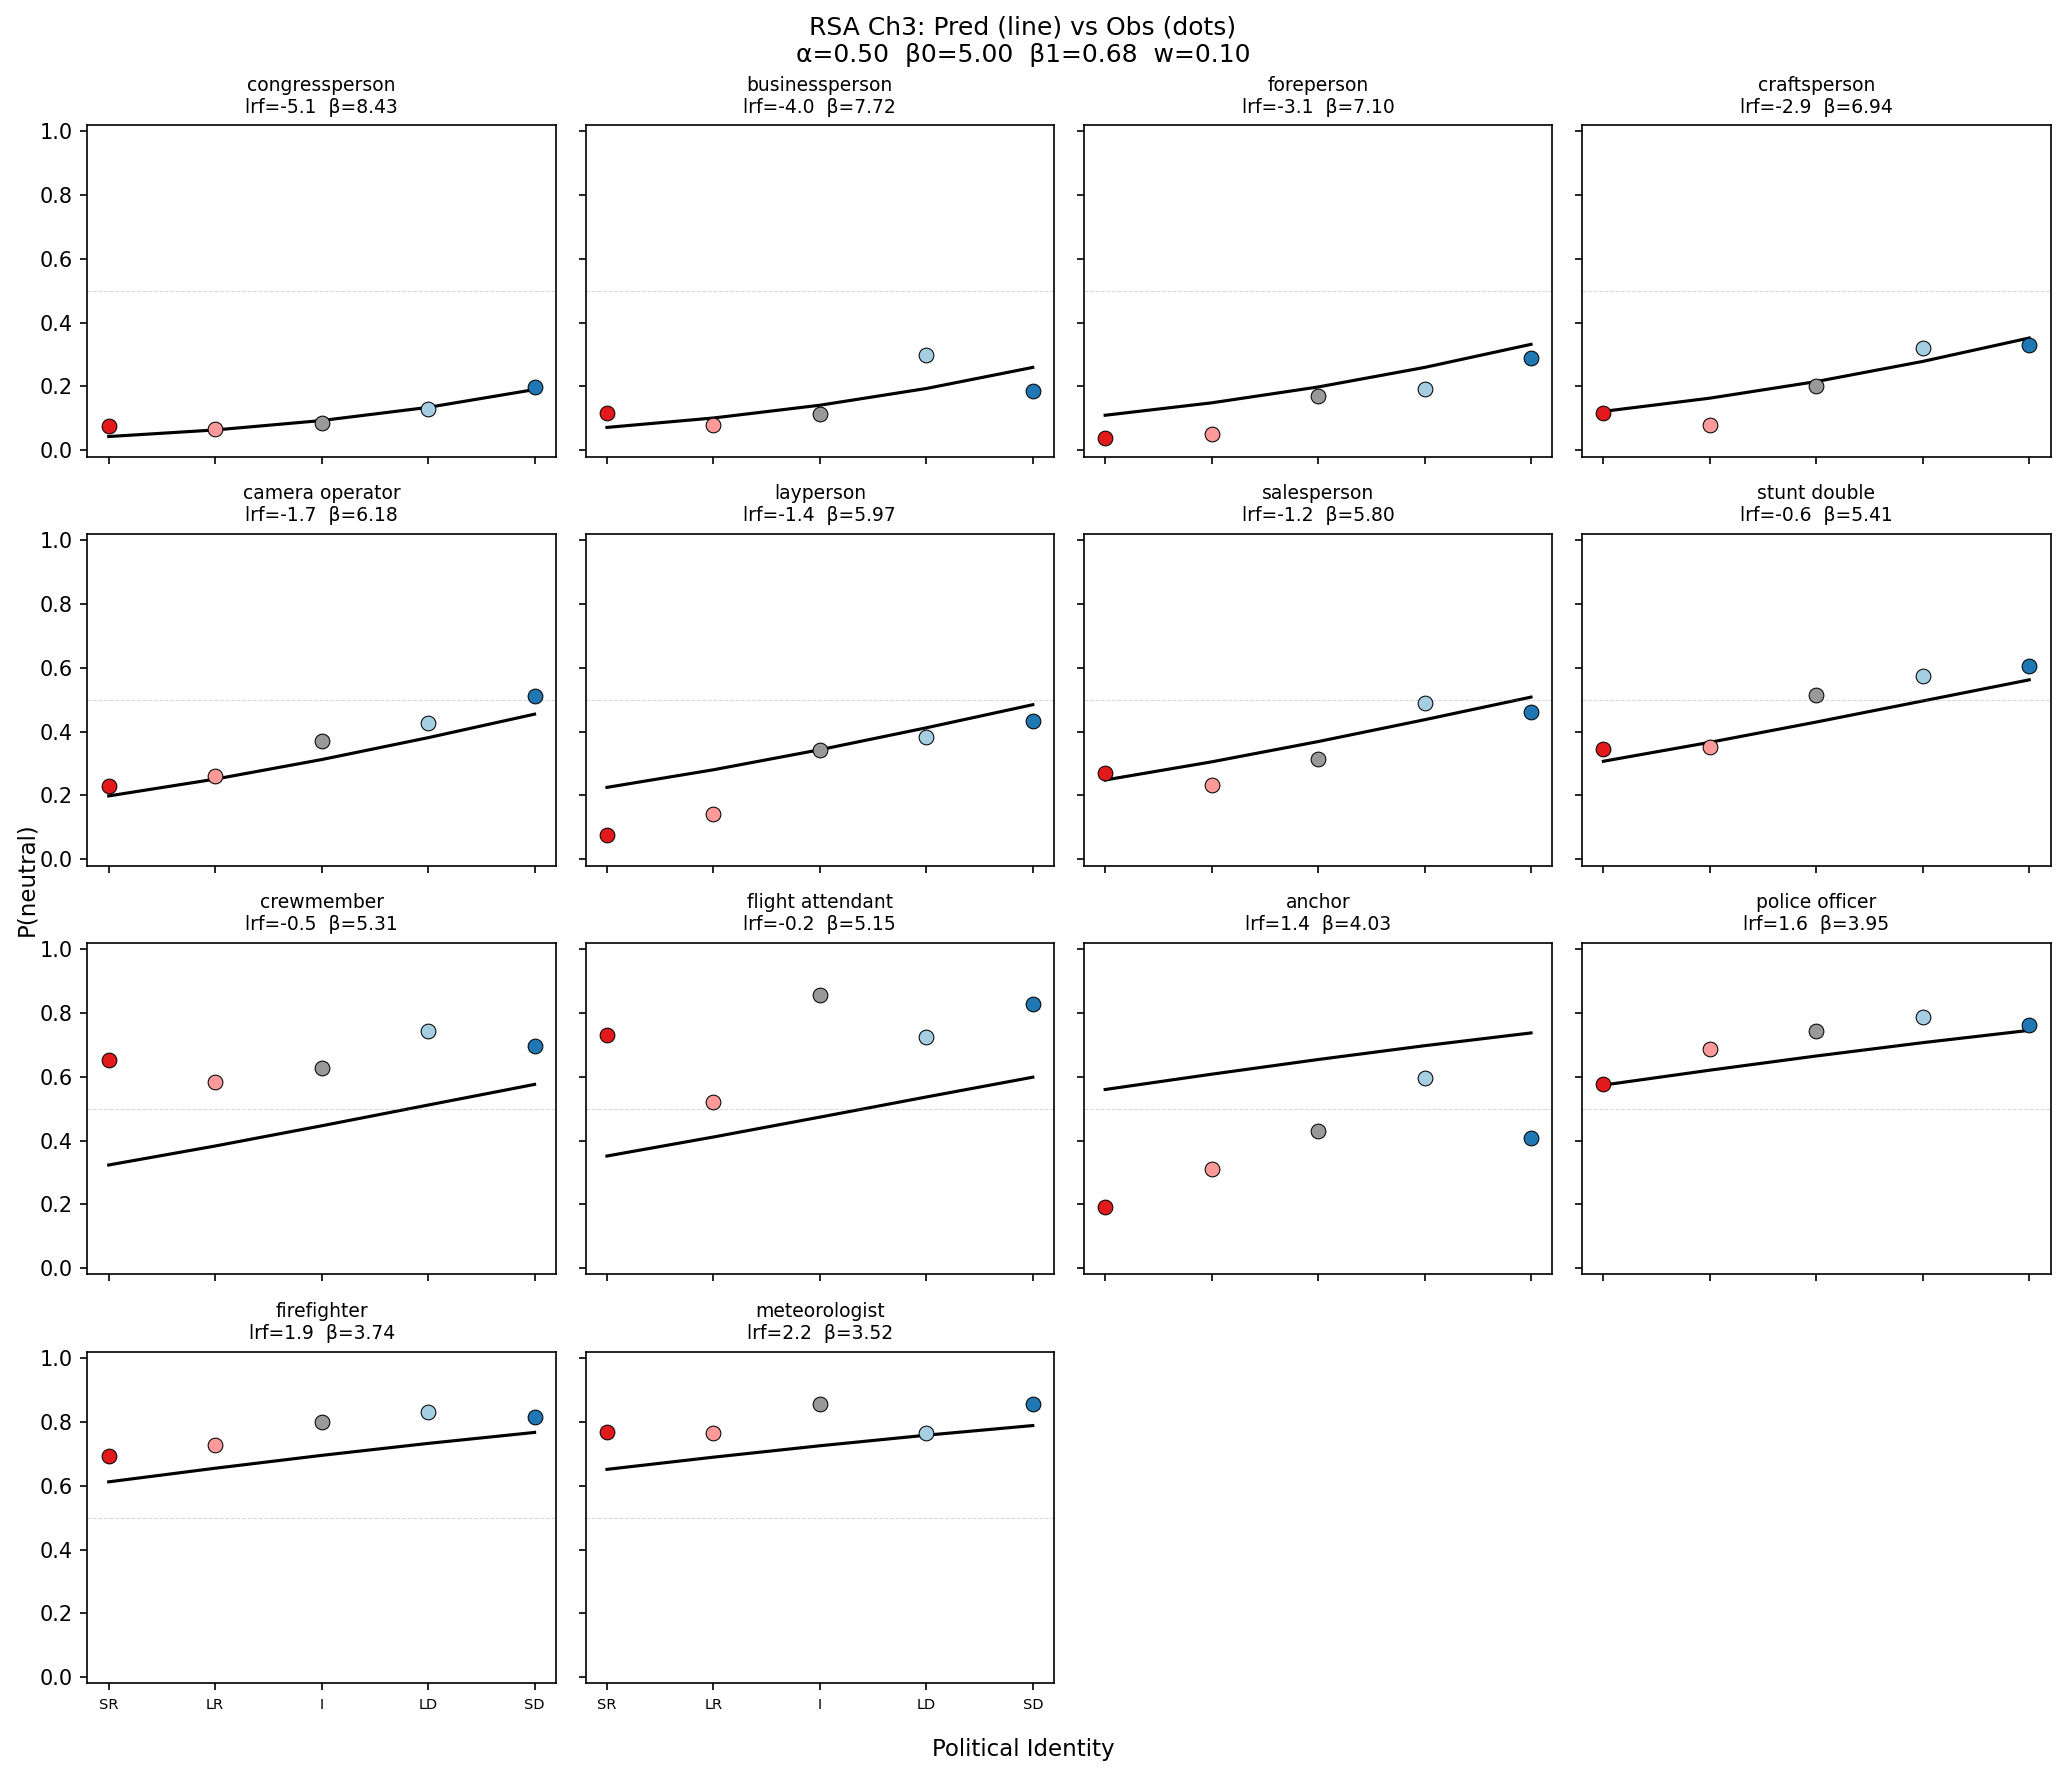
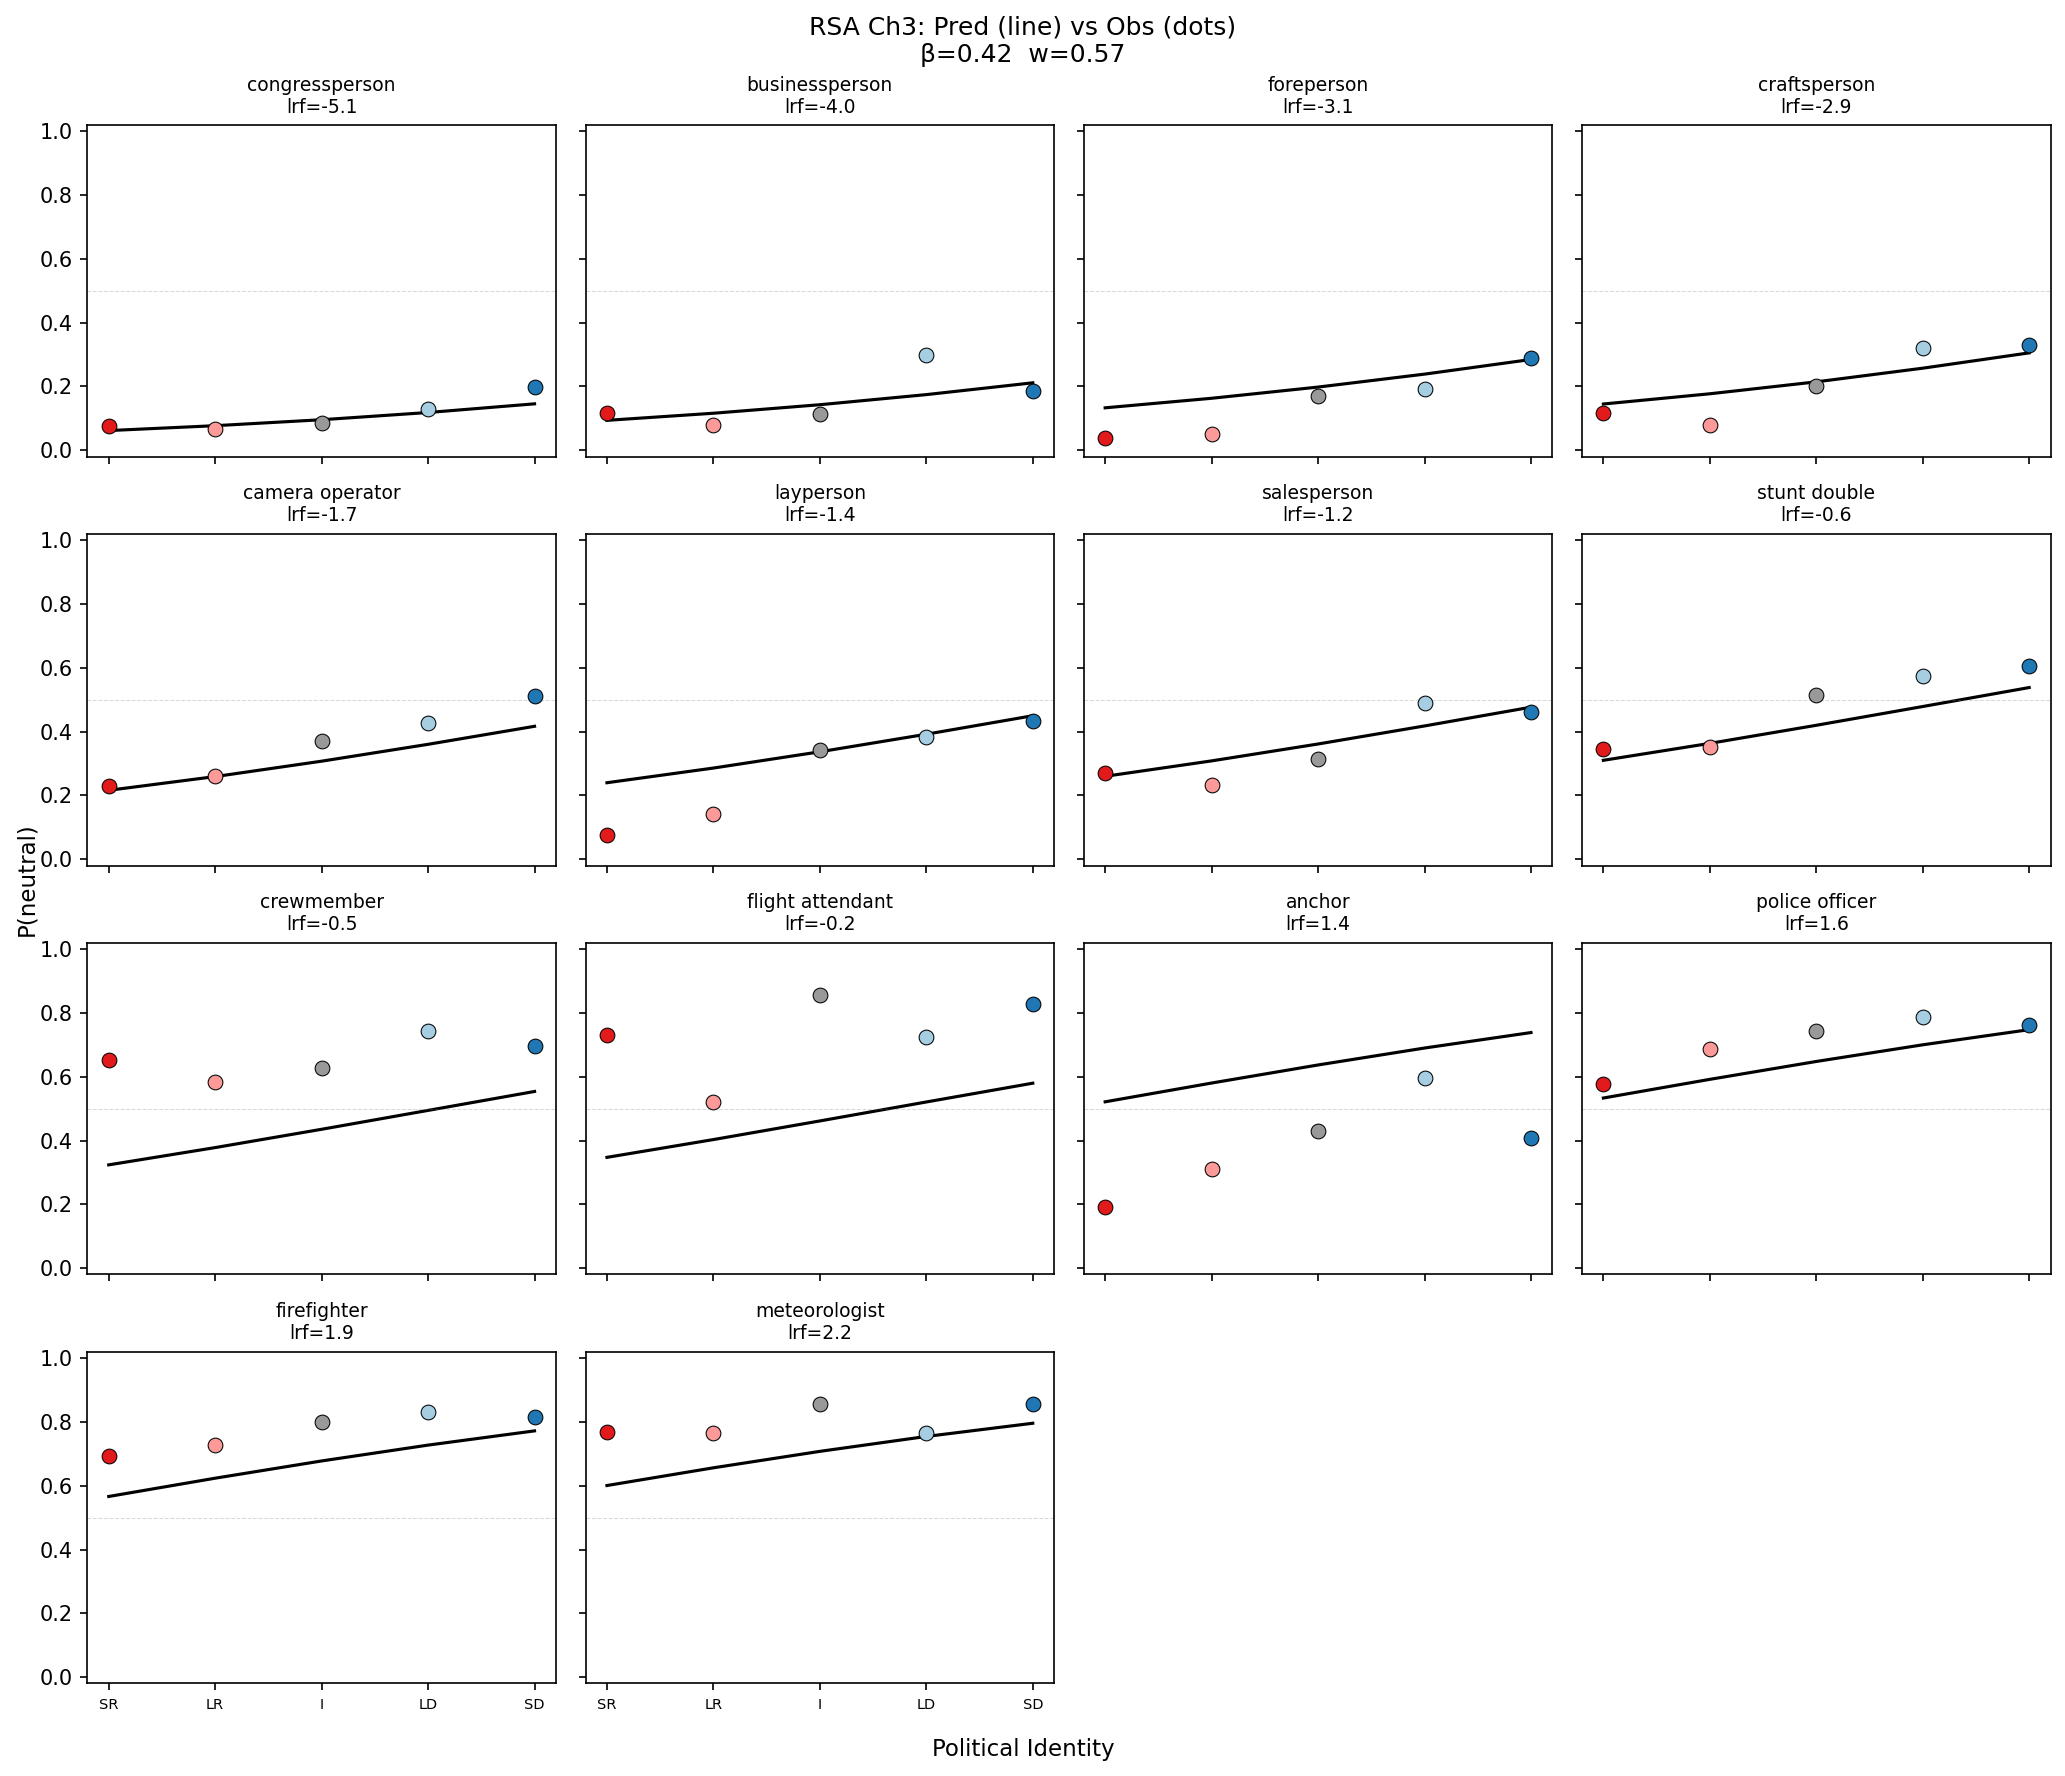
Simplify to 2-parameter model (β, w): drop α and per-lexeme β1

diff --git a/rsa_ch3.py b/rsa_ch3.py
@@ -10,10 +10,8 @@ Speakers choose between neutral and gendered role nouns to:
   2. Minimize cost (frequency: rare forms are costly to produce)
 
 Parameters:
-  α (alpha):  rationality — softmax temperature
-  β0, β1:     social meaning — β(lexeme) = max(0, β0 + β1 * (-log_rel_freq))
-              rare/novel neutral forms index progressiveness more strongly
-  w:          mixture weight — balance between informativity (1) and cost (0)
+  β (beta):  social meaning — how strongly neutral indexes progressiveness
+  w:         mixture weight — balance between informativity (1) and cost (0)
 
 Usage:
     python rsa_ch3.py
@@ -72,15 +70,6 @@ def make_prior(df):
 # =============================================================================
 
 @jax.jit
-def lexeme_beta(beta0, beta1, log_rel_freq):
-    """Per-lexeme social meaning strength.
-
-    Rare/novel neutral forms (negative log_rel_freq) index progressiveness
-    more strongly than established ones.
-    """
-    return jnp.maximum(0.0, beta0 + beta1 * (-log_rel_freq))
-
-@jax.jit
 def make_compat(beta):
     """
     Soft compatibility: identity × utterance.
@@ -128,7 +117,7 @@ def prior_wpp(i, prior):
     return prior[i]
 
 @memo
-def S1[i: I, u: U](alpha, w, prior: ..., compat_matrix: ..., costs: ...):
+def S1[i: I, u: U](w, prior: ..., compat_matrix: ..., costs: ...):
     """S1 speaker: choose utterance to signal political identity."""
     speaker: knows(i)
     speaker: thinks[
@@ -137,7 +126,7 @@ def S1[i: I, u: U](alpha, w, prior: ..., compat_matrix: ..., costs: ...):
             speaker: chooses(u in U, wpp=compat_lookup(i, u, compat_matrix))
         ]
     ]
-    speaker: chooses(u in U, wpp=exp(alpha * imagine[
+    speaker: chooses(u in U, wpp=exp(imagine[
         listener: observes [speaker.u] is u,
         listener: knows(i),
         (
@@ -151,12 +140,11 @@ def S1[i: I, u: U](alpha, w, prior: ..., compat_matrix: ..., costs: ...):
 # PREDICTION
 # =============================================================================
 
-def predict_lexeme(alpha, beta0, beta1, w, log_rel_freq, prior):
+def predict_lexeme(beta, w, log_rel_freq, prior):
     """Predict P(neutral | identity) for a single lexeme."""
-    beta = lexeme_beta(beta0, beta1, log_rel_freq)
     compat_matrix = make_compat(beta)
     costs = make_costs(log_rel_freq)
-    s1 = S1(alpha, w, prior=prior, compat_matrix=compat_matrix, costs=costs)
+    s1 = S1(w, prior=prior, compat_matrix=compat_matrix, costs=costs)
     return np.array(s1[:, 1])  # P(neutral) for each identity
 
 # =============================================================================
@@ -165,28 +153,26 @@ def predict_lexeme(alpha, beta0, beta1, w, log_rel_freq, prior):
 
 def total_rmse(params, observed, prior):
     """RMSE across all party × lexeme cells."""
-    alpha, beta0, beta1, w = params
+    beta, w = params
     errors = []
     for lexeme in observed['lexeme'].unique():
         lex_data = observed[observed['lexeme'] == lexeme]
         lrf = lex_data['log_rel_freq'].iloc[0]
-        pred = predict_lexeme(alpha, beta0, beta1, w, lrf, prior)
+        pred = predict_lexeme(beta, w, lrf, prior)
         for _, row in lex_data.iterrows():
             idx = int(row['party_numeric']) - 1
             errors.append((pred[idx] - row['neutral_rate']) ** 2)
     return float(np.sqrt(np.mean(errors)))
 
 def fit_model(observed, prior, n_starts=10):
-    """Fit α, β0, β1, w by minimizing RMSE."""
-    bounds = [(0.1, 20), (0.0, 5), (0.0, 5), (0.0, 1.0)]
+    """Fit β, w by minimizing RMSE."""
+    bounds = [(0.0, 5), (0.0, 1.0)]
     best_rmse = float('inf')
     best_x = None
 
     np.random.seed(42)
     for _ in range(n_starts):
-        x0 = [np.random.uniform(1, 10),
-               np.random.uniform(0, 1),
-               np.random.uniform(0, 1),
+        x0 = [np.random.uniform(0, 2),
                np.random.uniform(0.1, 0.9)]
         result = minimize(total_rmse, x0, args=(observed, prior),
                           method='L-BFGS-B', bounds=bounds,
@@ -196,8 +182,7 @@ def fit_model(observed, prior, n_starts=10):
             best_x = result.x
 
     return best_rmse, {
-        'alpha': best_x[0], 'beta0': best_x[1],
-        'beta1': best_x[2], 'w': best_x[3]
+        'beta': best_x[0], 'w': best_x[1]
     }
 
 # =============================================================================
@@ -222,14 +207,13 @@ def plot_results(plot_df, params):
         ax = axes[i]
         ld = plot_df[plot_df['lexeme'] == lexeme].sort_values('party_numeric')
         lrf = ld['log_rel_freq'].iloc[0]
-        beta = ld['beta'].iloc[0]
 
         for j, (_, row) in enumerate(ld.iterrows()):
             ax.scatter(row['party_numeric'], row['obs'],
                        color=party_colors[j], s=50, zorder=3, edgecolors='k', linewidths=0.5)
         ax.plot(ld['party_numeric'], ld['pred'], color='black', linewidth=1.5, zorder=2)
 
-        ax.set_title(f"{lexeme}\nlrf={lrf:.1f}  β={beta:.2f}", fontsize=9)
+        ax.set_title(f"{lexeme}\nlrf={lrf:.1f}", fontsize=9)
         ax.set_xticks(range(1, 6))
         if i >= (nrows - 1) * ncols:
             ax.set_xticklabels(['SR', 'LR', 'I', 'LD', 'SD'], fontsize=7)
@@ -244,8 +228,7 @@ def plot_results(plot_df, params):
     fig.supxlabel('Political Identity', fontsize=11)
     fig.supylabel('P(neutral)', fontsize=11)
     fig.suptitle(f"RSA Ch3: Pred (line) vs Obs (dots)\n"
-                 f"α={params['alpha']:.2f}  β0={params['beta0']:.2f}  "
-                 f"β1={params['beta1']:.2f}  w={params['w']:.2f}",
+                 f"β={params['beta']:.2f}  w={params['w']:.2f}",
                  fontsize=12)
     plt.tight_layout()
     plt.savefig('ch3_faceted.png', dpi=150, bbox_inches='tight')
@@ -330,14 +313,12 @@ def main():
     avg_rmse, params = fit_model(observed, prior)
 
     print(f"\nFitted parameters:")
-    print(f"  α (rationality)    = {params['alpha']:.3f}")
-    print(f"  β0 (base indexing) = {params['beta0']:.3f}")
-    print(f"  β1 (rarity boost)  = {params['beta1']:.3f}")
+    print(f"  β (social meaning) = {params['beta']:.3f}")
     print(f"  w (info vs cost)   = {params['w']:.3f}  [1=pure info, 0=pure cost]")
     print(f"  RMSE               = {avg_rmse:.4f}")
 
     # Per-lexeme table: pred/obs for each identity
-    header = f"{'Lexeme':<20} {'logFreq':>7} {'β':>5}"
+    header = f"{'Lexeme':<20} {'logFreq':>7}"
     for name in IDENTITY_NAMES:
         header += f"  {name:>11}"
     print(f"\n{header}")
@@ -349,19 +330,17 @@ def main():
     for lexeme in sorted(observed['lexeme'].unique()):
         lex_data = observed[observed['lexeme'] == lexeme]
         lrf = lex_data['log_rel_freq'].iloc[0]
-        beta = float(lexeme_beta(params['beta0'], params['beta1'], lrf))
-        pred = predict_lexeme(params['alpha'], params['beta0'], params['beta1'],
-                              params['w'], lrf, prior)
+        pred = predict_lexeme(params['beta'], params['w'], lrf, prior)
         obs_dict = {int(r['party_numeric']) - 1: r['neutral_rate']
                     for _, r in lex_data.iterrows()}
 
-        row = f"{lexeme:<20} {lrf:>7.2f} {beta:>5.2f}"
+        row = f"{lexeme:<20} {lrf:>7.2f}"
         for idx in range(5):
             p = pred[idx]
             o = obs_dict.get(idx, float('nan'))
             row += f"  {p:.2f}/{o:.2f}"
             plot_data.append({
-                'lexeme': lexeme, 'log_rel_freq': lrf, 'beta': beta,
+                'lexeme': lexeme, 'log_rel_freq': lrf,
                 'identity': IDENTITY_NAMES[idx], 'party_numeric': idx + 1,
                 'pred': p, 'obs': o,
             })
@@ -372,8 +351,7 @@ def main():
     cp_data = observed[observed['lexeme'] == 'congressperson']
     if not cp_data.empty:
         lrf = cp_data['log_rel_freq'].iloc[0]
-        pred = predict_lexeme(params['alpha'], params['beta0'], params['beta1'],
-                              params['w'], lrf, prior)
+        pred = predict_lexeme(params['beta'], params['w'], lrf, prior)
         for _, row in cp_data.iterrows():
             idx = int(row['party_numeric']) - 1
             print(f"  {IDENTITY_NAMES[idx]:>8}: pred={pred[idx]:.3f}  "
